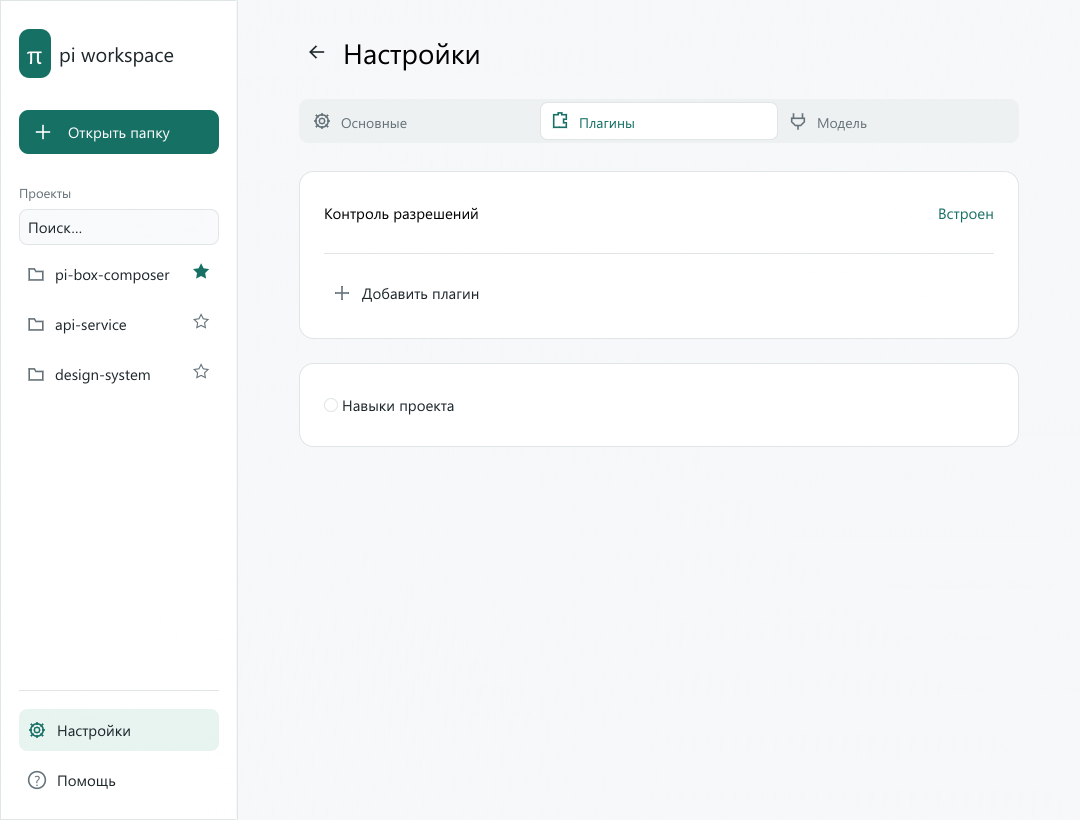
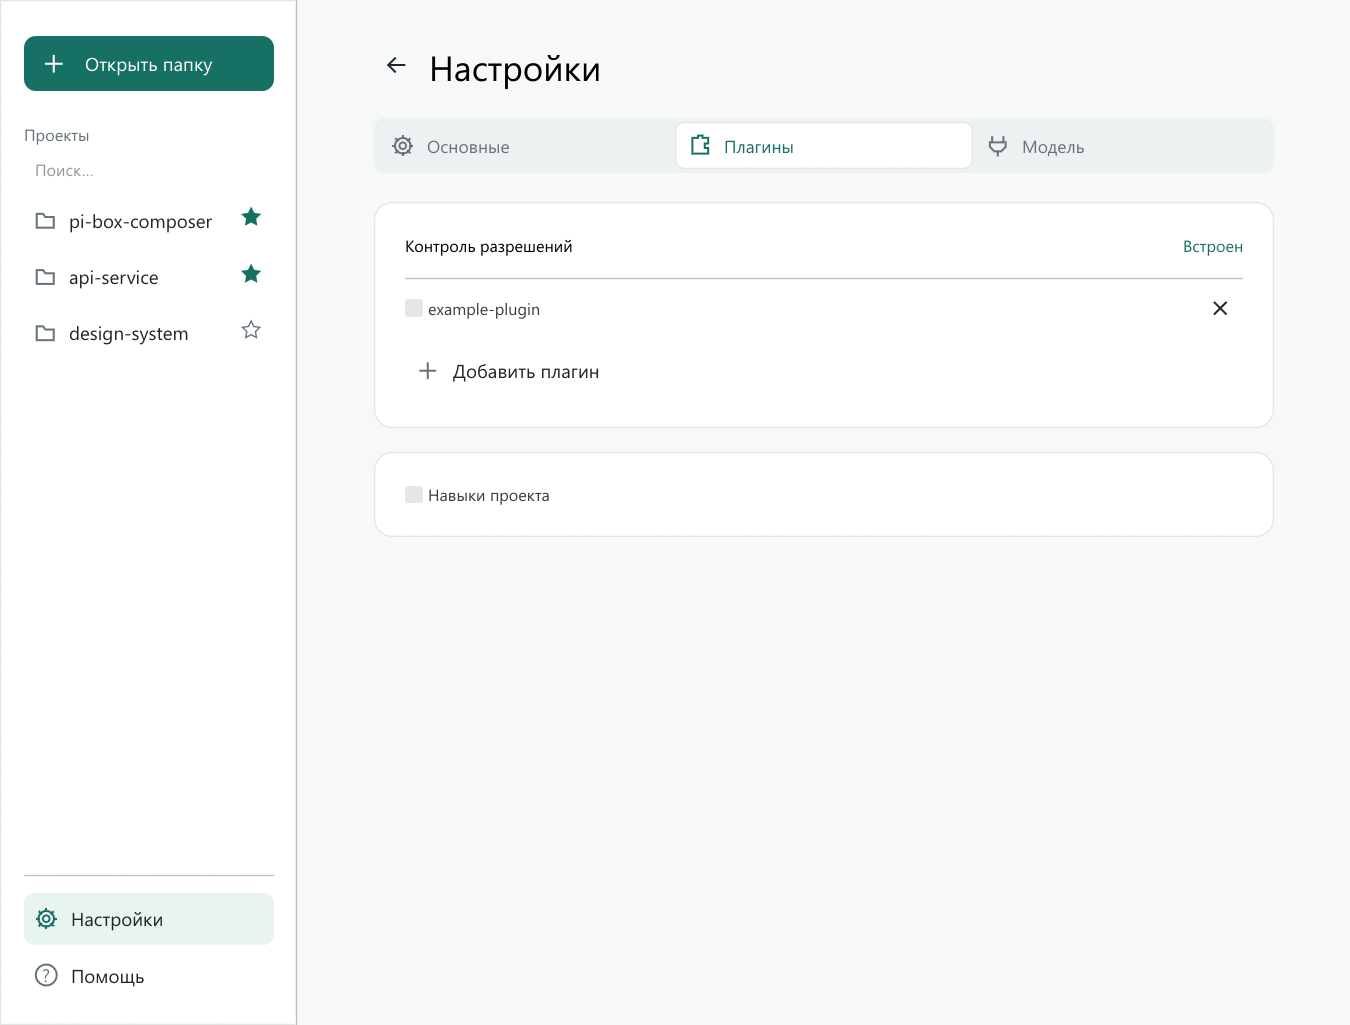
release 0.0.6

diff --git a/README.md b/README.md
@@ -1,25 +1,22 @@
 # pi-box-composer
 
-Windows launcher на Rust + egui для Pi в **Podman** или **Docker Desktop**. Версия приложения — **0.0.5**. Старые настройки без выбора движка продолжают использовать Podman. Приложение основано на `Install-Pi.ps1` и `Start-Pi.ps1`; запускать эти скрипты отдельно не требуется.
+Windows-приложение для запуска Pi в **Podman** или **Docker Desktop**. Выберите папку проекта, подключите сервер llama.cpp и задайте права агента. Версия — **0.0.6**.
 
 ## Быстрый запуск
 
-Для готового `pi-box-composer.exe` Rust не нужен. Для сборки нужны Rust со стандартной Windows MSVC toolchain и Visual Studio Build Tools с компонентом **Desktop development with C++**.
+1. Скачайте `pi-box-composer_0.0.6_windows_x64.exe` со [страницы релизов](https://github.com/lumenikoly/pi-box-composer/releases). При необходимости сверьте SHA-256 файла с `SHA256SUMS` из того же релиза.
+2. Поместите EXE в постоянную папку и запустите. Установщик и Rust для готового приложения не нужны.
+3. Установите Podman Desktop или Docker Desktop и подготовьте доступный сервер llama.cpp. Порядок подключения — в разделе [«Первая настройка»](#первая-настройка).
 
-```powershell
-cargo run --locked
-```
+## Что нового в 0.0.6
 
-Сборка приложения:
+- Новый интерфейс с боковой панелью проектов, поиском и закреплением папок.
+- Раздельные настройки записи и команд, общие правила и правила отдельных проектов.
+- Команда **Открыть в pi** в меню Проводника и запуск проекта через аргументы EXE.
+- Открытие папки истории и удаление сессий выбранного проекта и движка с подтверждением.
+- Обновлённые экраны настройки модели, параметров pi и плагинов.
 
-```powershell
-cargo build --release --locked
-.\target\release\pi-box-composer.exe
-```
-
-## Релиз 0.0.5
-
-В GitHub Actions вручную запустите **Release executable** из `main` с версией `0.0.5`. Workflow соберёт Windows x64, создаст тег `v0.0.5` и опубликует EXE с `SHA256SUMS`. Подробности — в [инструкции релиза](docs/RELEASE.md), изменения — в [CHANGELOG.md](CHANGELOG.md).
+Полный список изменений — в [CHANGELOG.md](CHANGELOG.md). Порядок сборки и публикации — в [инструкции релиза](docs/RELEASE.md).
 
 ## Работа с проектами
 
@@ -61,6 +58,8 @@ pi-box-composer.exe .
 
 В **Дополнительных параметрах** можно изменить каталог окружения или запустить установленный движок. Меню **Помощь** открывает инструкции и диагностику. Пояснения к элементам доступны при наведении.
 
+![Подключение сервера и выбор движка](docs/screenshots/setup.png)
+
 ## Настройки pi
 
 Пункт **Настройки** содержит параметры, которые сохраняются автоматически и применяются при следующем запуске без пересборки окружения:
@@ -81,6 +80,10 @@ pi-box-composer.exe .
 
 Флаги и параметры соответствуют закреплённому [pi 1.3.0](https://github.com/earendil-works/pi/blob/v1.3.0/packages/coding-agent/docs/settings.md). Параметры pi хранятся отдельно от подключения: их изменение не сбрасывает готовность окружения. Старый `launcher.json` загружается с безопасными значениями новых параметров.
 
+![Основные настройки pi](docs/screenshots/settings.png)
+
+![Локальные плагины](docs/screenshots/plugins.png)
+
 Образ содержит `ripgrep`, `fd-find` для инструмента `find` в pi и GNU `find`. Сборка проверяет запуск этих утилит. Для существующего окружения повторите шаг **Сборка образа**: перед сборкой launcher обновит Containerfile.
 
 ## Что делает мастер
@@ -96,6 +99,8 @@ pi-box-composer.exe .
 | 7 | Запись модели, лимитов и политики разрешений |
 
 Технические шаги находятся в **Инструкция и команды → Окружение Pi**. Кнопка **Выполнить шаг в launcher** запускает выбранный шаг; отдельные команды можно копировать для PowerShell. Условные действия отмечены отдельно, например создание Machine нужно только при пустом списке. При повторе шага последующие отметки сбрасываются. После перезапуска приложения проверки выполняются заново, а сохранённая конфигурация позволяет сразу перейти к запуску проекта. Выбор движка сохраняется; при переключении восстанавливается ранее завершённая конфигурация выбранного движка.
+
+![Встроенная инструкция и команды](docs/screenshots/instructions.png)
 
 **Запустить Podman Machine** запускает существующую Machine. **Запустить Docker Desktop** выполняет `docker desktop start --timeout 60`. Если эта команда недоступна в установленной версии Docker Desktop, откройте приложение вручную и повторите проверку. Launcher использует активный Docker context и проверяет, что сервер сообщает Docker Desktop и Linux; сам context он не переключает.
 
@@ -127,7 +132,7 @@ pi-box-composer.exe .
     state\projects\...
 ```
 
-Базовый каталог окружения можно изменить в UI. Podman сохраняет прежнюю структуру; Docker использует подпапку `docker`. Конфиги, история Pi и имена ресурсов разделены. Общими остаются список недавних проектов и права выбранной папки. Ресурсы имеют префикс `pi-ui-<хеш каталога>`, чтобы не пересекаться с оригинальными скриптами. Существующие контейнеры и сети с другим владельцем launcher не заменяет. Состояние оригинального `C:\Work\ai` автоматически не импортируется.
+Базовый каталог окружения можно изменить в UI. Docker использует подпапку `docker`. Конфиги, история Pi и имена ресурсов разделены между движками. Общими остаются список недавних проектов и права выбранной папки. Ресурсы имеют префикс `pi-ui-<хеш каталога>` для разделения окружений. Существующие контейнеры и сети с другим владельцем launcher не заменяет. Старые настройки без выбора движка продолжают использовать Podman.
 
 Токен не сохраняется в JSON launcher, исходниках, журнале или значениях аргументов процесса. Поле очищается после передачи фоновой операции.
 
@@ -145,13 +150,21 @@ pi-box-composer.exe .
 - Проверка прямого соединения требует код curl 7 или 28. Код 125 движка и другие ошибки не засчитываются как успешная изоляция. Proxy-переменные клиента Docker явно очищаются в контейнерах, чтобы не обходить внутреннюю сеть через пользовательские настройки CLI. Проверка относится только к указанному серверу; это не исчерпывающая проверка всех сетевых путей.
 - Подключать корень диска, UNC-ресурс, каталог данных launcher, окружение или их родителей/потомков нельзя. Путь проекта разрешается через `canonicalize`; вложенные symlink/junction/reparse points отклоняются. Проверяется до 250 000 записей; для более крупных деревьев нужно выбрать более узкую папку. Проверка не защищает от изменения ссылок другим процессом после проверки.
 - Политика расширения применяет выбранные настройки подтверждений `edit`, `write`, `bash`, запрещает MCP и некоторые шаблоны команд. Это дополнительный слой, а не системная граница безопасности. `.env` и другие секреты внутри подключённого проекта физически доступны контейнеру, в том числе через `bash`. Используйте рабочую копию без секретов.
-- LAN-соединение Caddy → llama.cpp сохранено как HTTP, как в исходном скрипте. HTTPS, скрытие файлов внутри проекта и отдельная копия/worktree не реализованы.
+- Соединение Caddy → llama.cpp использует HTTP. HTTPS, скрытие файлов внутри проекта и отдельная копия/worktree не реализованы.
 
-Образы Node/Caddy используют теги; npm-версии Pi и расширения закреплены на версиях исходного скрипта. Это не полностью воспроизводимая сборка контейнера по digest. При несовместимости этих версий сборка завершится видимой ошибкой.
+Образы Node/Caddy используют теги; версии npm-пакетов закреплены в [Containerfile](assets/Containerfile). Это не полностью воспроизводимая сборка контейнера по digest. При несовместимости этих версий сборка завершится видимой ошибкой.
 
 Прокси использует локальный образ `localhost/pi-box-composer-proxy:2-alpine-nocap`, производный от `docker.io/library/caddy:2-alpine`. Его отдельный Containerfile удаляет file capability с `/usr/bin/caddy` командой `setcap -r`; UID 1000, read-only, `--cap-drop=all` и `no-new-privileges` сохраняются. Это устраняет конфликт, вызывающий `exec /usr/bin/caddy: operation not permitted`. Для существующего окружения повторите шаг 5: launcher запишет рецепт и соберёт образ перед пересозданием прокси. При ошибке сборки старый прокси не удаляется. Затем повторите шаги 6 и 7. Файл `image/Containerfile` для Pi/Node менять не требуется.
 
 ## Разработка и проверка
+
+Для сборки нужны Rust со стандартной Windows MSVC toolchain и Visual Studio Build Tools с компонентом **Desktop development with C++**.
+
+```powershell
+cargo run --locked
+cargo build --release --locked
+.\target\release\pi-box-composer.exe
+```
 
 ```powershell
 cargo fmt --check
@@ -170,4 +183,4 @@ cargo run --locked -- --data-dir C:\Temp\PiLauncher-test
 Параметр `--setup` открывает подключение, `--settings` — настройки pi, `--project <папка>` — выбранный проект. `--smoke-test` закрывает окно через три секунды, не выполняя установку или запуск Pi. Полная проверка требует выбранного контейнерного движка, доступного llama.cpp и API-токена. Rust-приложение ориентировано на Windows; отдельный терминал других ОС в этой версии не реализован.
 
 
-Для QA интерфейса доступна необязательная feature capture-ui: задайте путь PNG в PI_LAUNCHER_CAPTURE_TO и запустите cargo run --features capture-ui -- --instructions --smoke-test. Обычная release-сборка эту возможность не включает.
+Для QA интерфейса доступна необязательная feature `capture-ui`: задайте абсолютный путь PNG в `PI_LAUNCHER_CAPTURE_TO` и запустите `cargo run --locked --features capture-ui -- --data-dir C:\Temp\PiLauncher-test --instructions --smoke-test`. Размер окна можно задать через `PI_LAUNCHER_CAPTURE_SIZE=1080x820`. Обычная release-сборка эту возможность не включает.

diff --git a/CHANGELOG.md b/CHANGELOG.md
@@ -1,3 +1,19 @@
+# 0.0.6
+
+pi-box-composer — Windows launcher для Pi в Podman или Docker Desktop.
+
+- Обновлён интерфейс: боковая панель проектов, поиск, закрепление папок, новые элементы управления и экраны настроек.
+- Запись и bash настраиваются независимо: запретить, спрашивать или разрешить. Проекты могут наследовать общие значения или сохранять собственные.
+- Добавлены общие правила доступа к файлам и командам и правила отдельных проектов.
+- Добавлена команда «Открыть в pi» в меню папок Проводника; регистрацию можно отключить в настройках.
+- Проект можно выбрать аргументом `--project` или позиционным путём, открыть напрямую через `--open`.
+- Добавлены открытие папки истории и удаление сессий проекта с подтверждением, отдельно для каждого движка.
+- В образ Pi добавлены ripgrep, fd-find и проверка доступности поисковых утилит.
+- Обновлены README и скриншоты интерфейса.
+
+Релиз содержит исполняемый файл Windows x64 и SHA256SUMS. Для работы нужен
+установленный Podman или Docker Desktop и доступный сервер llama.cpp.
+
 # 0.0.5
 
 pi-box-composer — Windows launcher для Pi в Podman или Docker Desktop.
